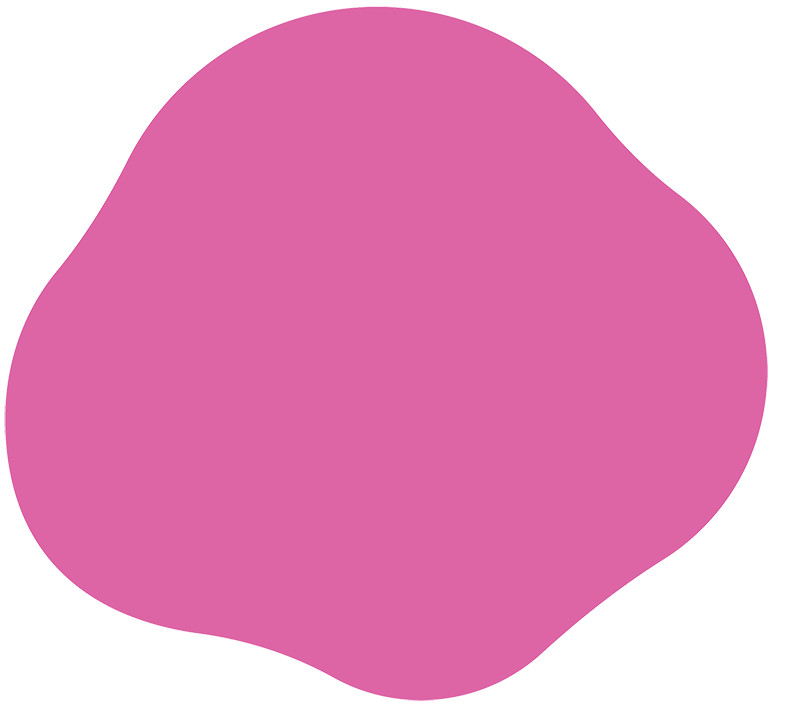
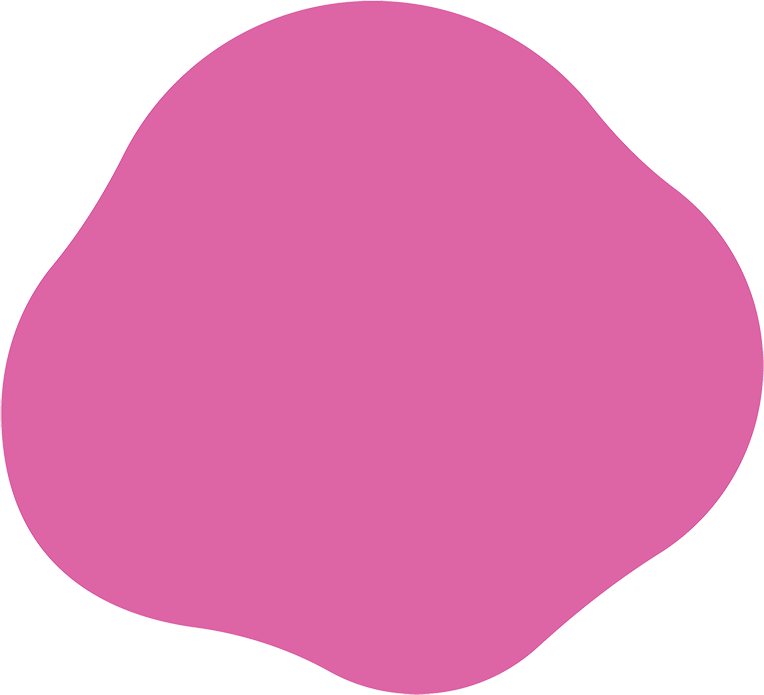
Changes

diff --git a/src/component/Login/LoginScreen.style.js b/src/component/Login/LoginScreen.style.js
@@ -9,15 +9,19 @@ const styles = StyleSheet.create({
   },
   bgimg1: {
     position: 'absolute',
-    transform: [{ skewX: '-65deg' }],
-    top: -180,
-    left: -620,
+    //transform: [{ skewX: '-65deg' }],
+    top: isMobile ? -20:-180,
+    left: isMobile ? -80:-120,
+    width: isMobile ? 250 :450,
+    height: isMobile ? 227 :409
   },
   bgimages2: {
     position: 'absolute',
-    transform: [{ skewX: '162deg' }],
-    top: 190,
-    right: -540,
+    //transform: [{ skewX: '162deg' }],
+    top: isMobile ? 580:250,
+    right: isMobile ? 10:70,
+    width: isMobile ? 250 :450,
+    height: isMobile ? 213 :384
   },
   form: {
     flex: 1,
